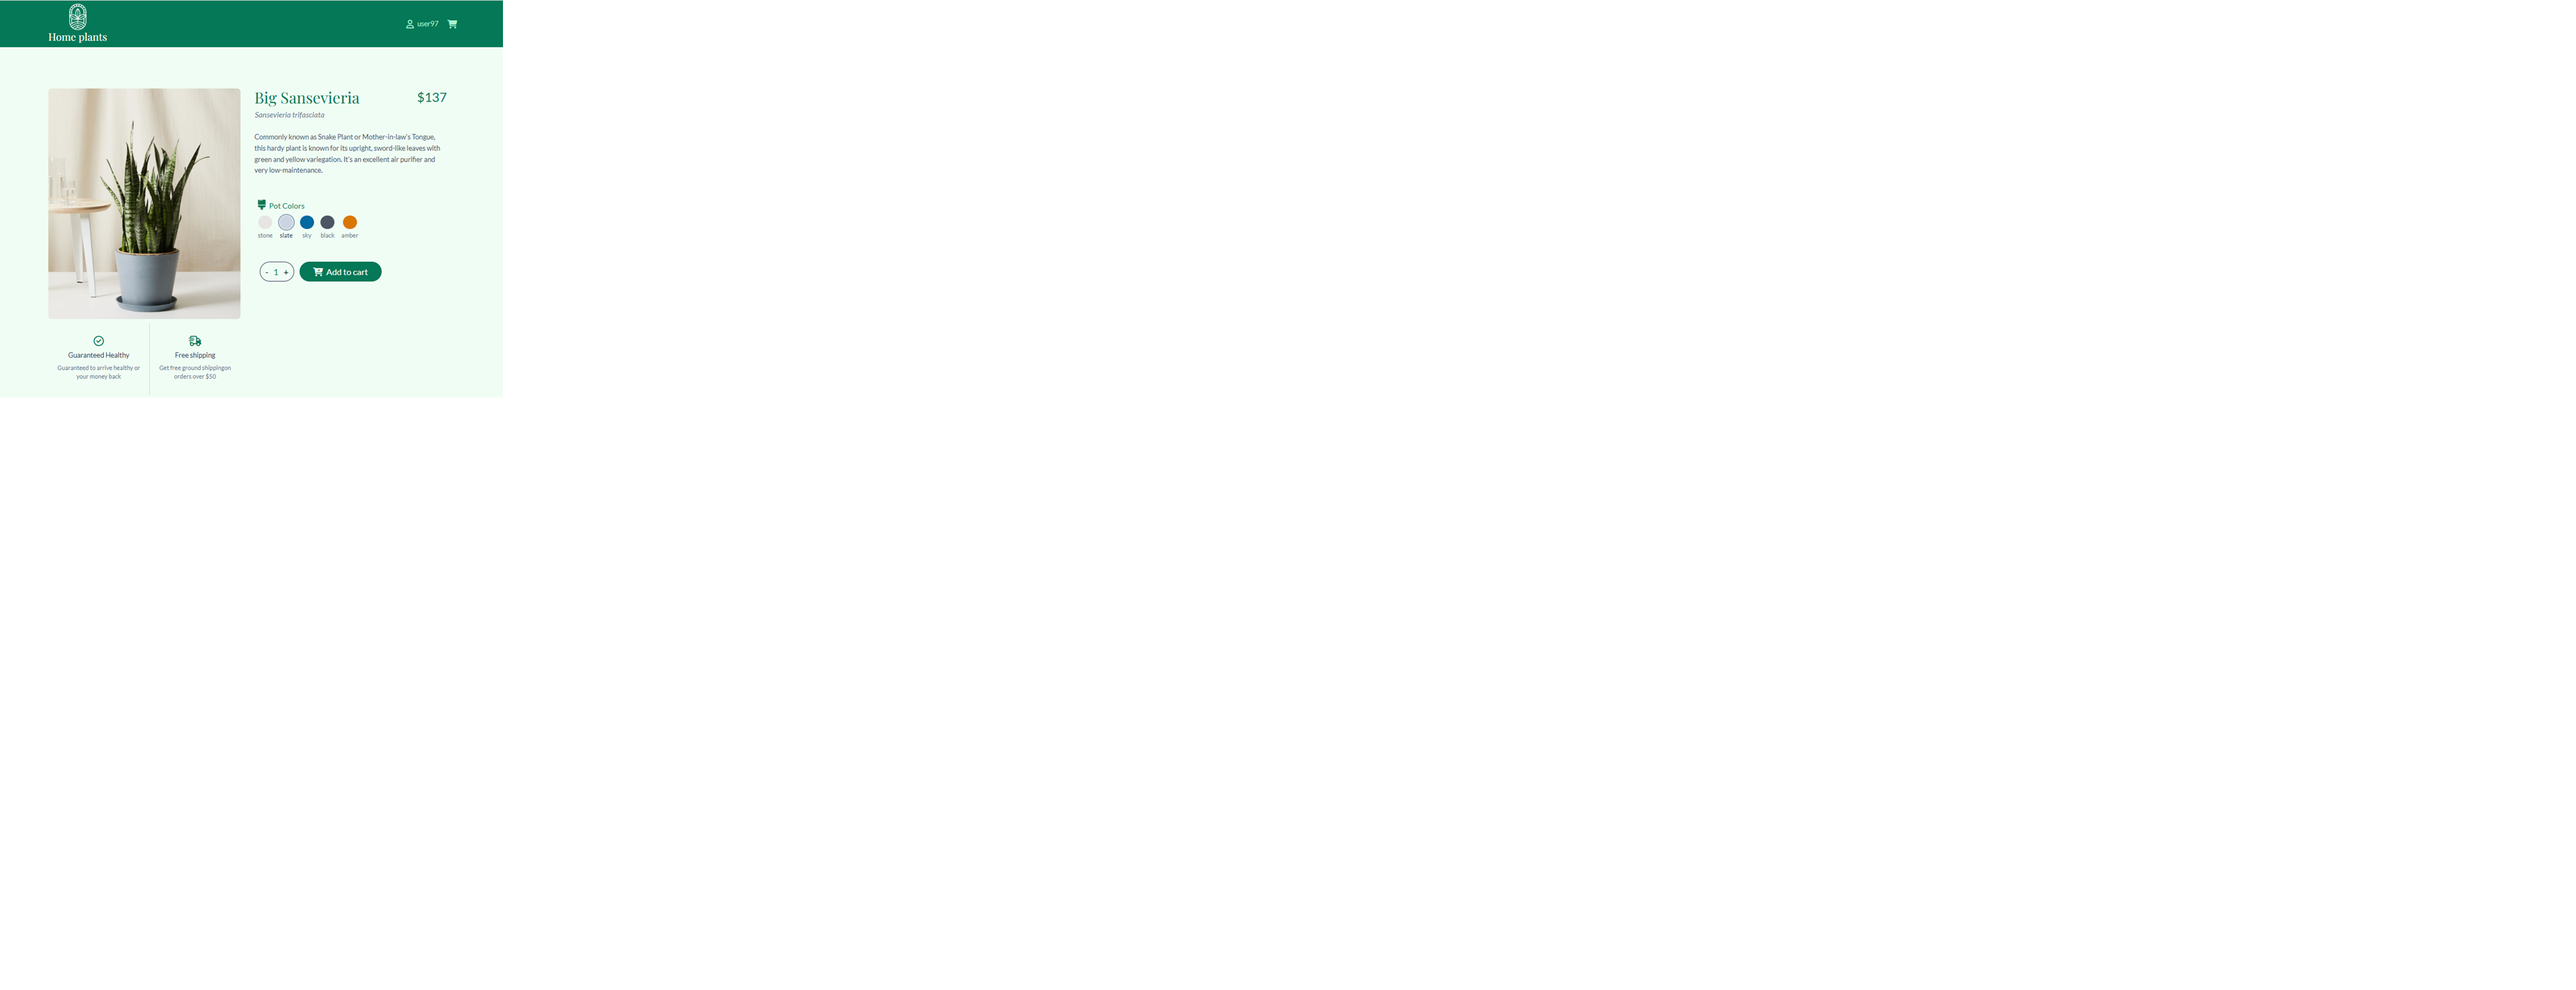
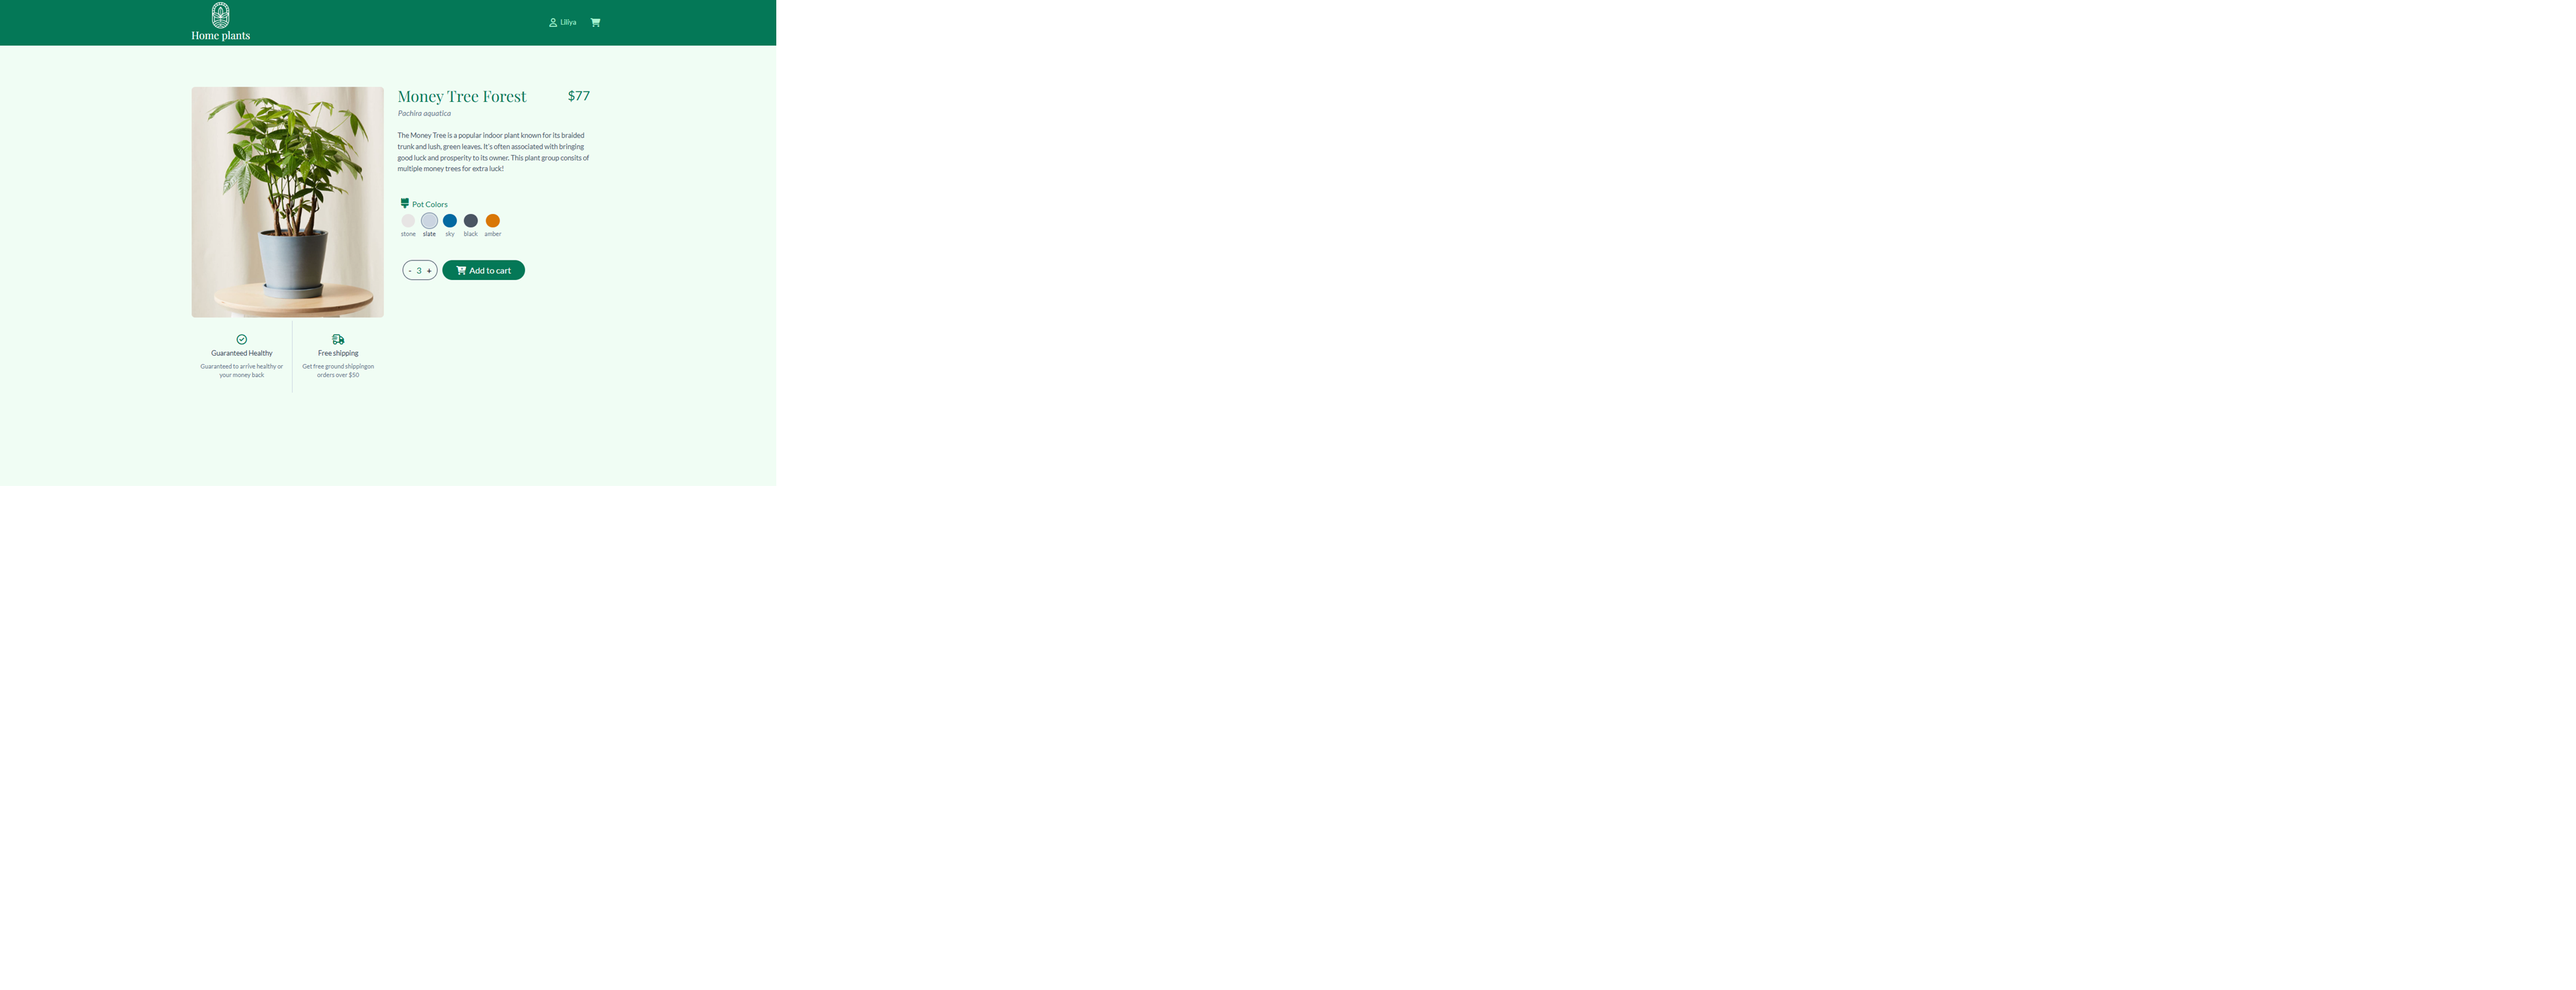
Modify Readme file

Changed region(s): [[0.0, 0.0, 0.2172, 0.3742], [0.1861, 0.0, 0.3102, 0.0624]]

diff --git a/README.md b/README.md
@@ -4,7 +4,13 @@ A modern plant e-commerce application built with React and Tailwind CSS that all
 
 The application provides a smooth and interactive shopping experience with responsive design, animations, user authentication, and dynamic cart functionality.
 
-![Plant List](/plant-list.png)
+### Plant List
+
+![Plant List](./public/plant_list.png)
+
+### Plant Details
+
+![Plant Details](./public/plant-details.png)
 
 ## 🚀 Features
 
